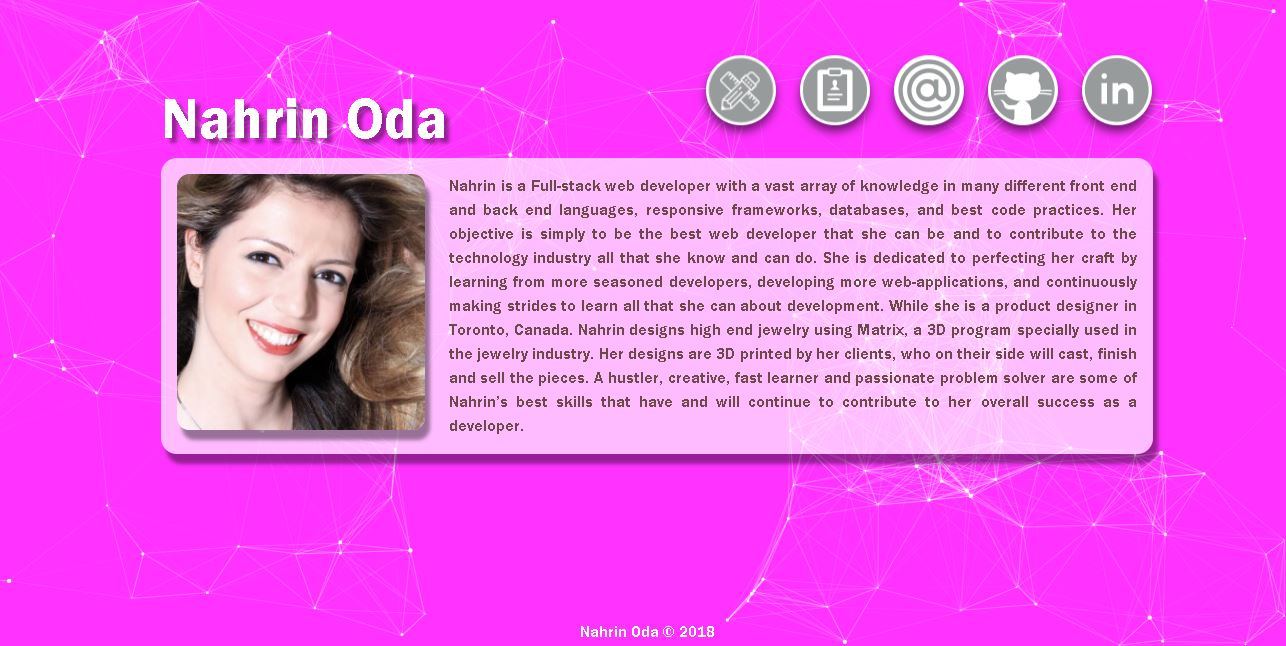
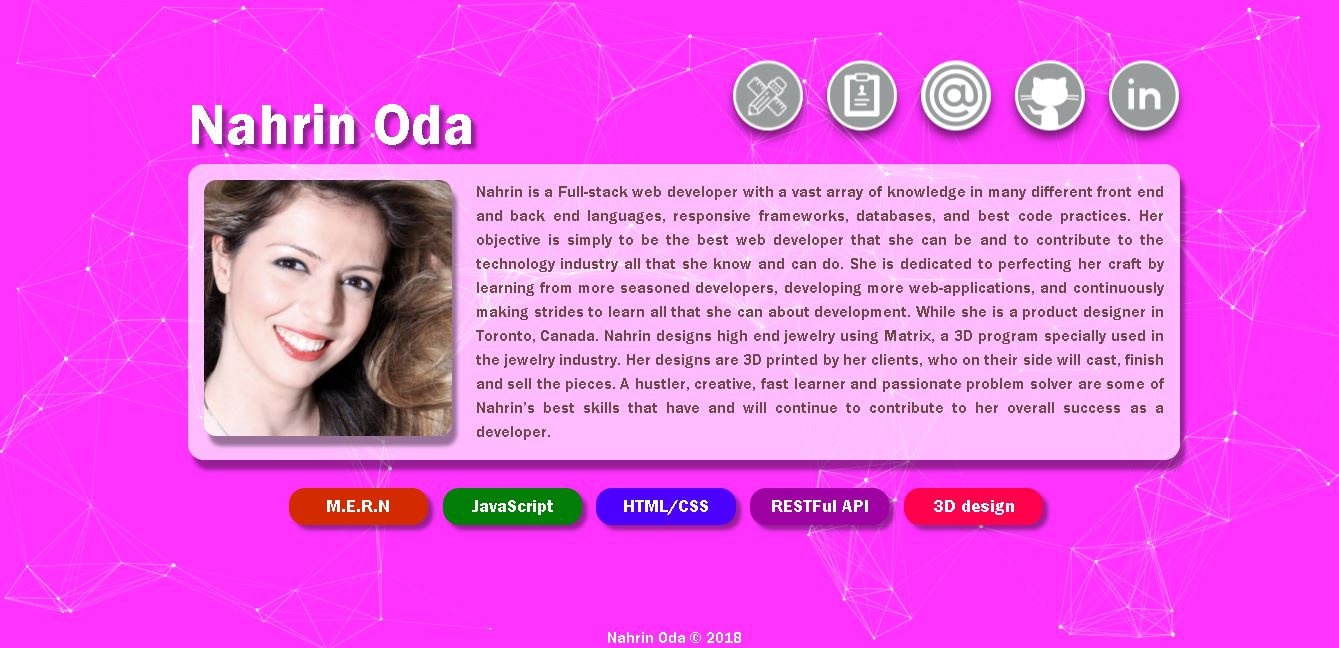
updates

diff --git a/landingPage.html b/landingPage.html
@@ -1,83 +1,116 @@
 <!DOCTYPE html>
-<html lang="en">
+<html class="responsive" lang="en">
+  <head>
+    <title>three.js webgl - materials - cube refraction [balls]</title>
+    <meta charset="utf-8" />
+    <meta
+      name="viewport"
+      content="width=device-width, user-scalable=no, minimum-scale=1.0, maximum-scale=1.0"
+    />
+    <!-- Style sheets link -->
+    <link rel="stylesheet" type="text/css" href="./assets/css/reset.css" />
+    <link rel="stylesheet" type="text/css" href="./assets/css/style.css" />
 
-<head>
-        <title>three.js webgl - materials - cube refraction [balls]</title>
-        <meta charset="utf-8">
-        <meta name="viewport" content="width=device-width, user-scalable=no, minimum-scale=1.0, maximum-scale=1.0">
-        <!--Style sheets link-->
-        <link rel="stylesheet" type="text/css" href="./assets/css/reset.css">
-        <link rel="stylesheet" type="text/css" href="./assets/css/style.css">
+    <!-- favicon -->
+    <link rel="icon" href="./assets/img/favicon.ico" type="image/x-icon" />
+    <title>Nahrin Oda</title>
+  </head>
 
-        <!--favicon-->
-        <link rel="icon" href="./assets/img/favicon.ico" type="image/x-icon">
-        <title>Nahrin Oda</title>
-</head>
+  <!-- <body onload="showGreetings()"> -->
 
-<!-- <body onload="showGreetings()"> -->
+  <body class="responsive">
+    <div id="particles-js"></div>
+    <div class="myName">Nahrin Oda</div>
 
-<body>
-        <div id="particles-js"></div>
-        <div class="myName">Nahrin Oda</div>
+    <div class="icons">
+      <a href="https://www.linkedin.com/in/nahrinoda/" target="_blank">
+        <img
+          class="myIcons "
+          src="https://img.icons8.com/ios/70/989B9C/linkedin-circled-filled.png"
+          alt="linkedin icon"
+        />
+      </a>
+      <a href="https://github.com/nahrinoda" target="_blank">
+        <img
+          class="myIcons "
+          src="https://img.icons8.com/ios/70/989B9C/github-filled.png"
+          alt="github icon"
+        />
+      </a>
+      <a href="mailto:nahrin@nahrinoda.com" target="_blank">
+        <img
+          class="myIcons "
+          src="https://img.icons8.com/windows/70/989B9C/email-sign.png"
+          alt="nahrin oda email"
+        />
+      </a>
+      <a
+        href="https://docs.google.com/document/d/1tdmhRHpPkqxgos4TyJ36ZoS1XIevag8E6swETnniMl8/edit"
+        target="_blank"
+      >
+        <img
+          class="myIcons "
+          src="./assets/img/cv.png"
+          width="70px"
+          alt="nahrin oda resume"
+        />
+      </a>
+      <a href="./index.html">
+        <img
+          class="myIcons "
+          src="./assets/img/portfolio.png"
+          width="70px"
+          alt="nahrin oda portfolio"
+        />
+      </a>
+      <!--
+        <a href="tel:6479837503" target="_blank">
 
-        <div class="icons">
-                <a href="https://www.linkedin.com/in/nahrinoda/" target="_blank">
-                        <img class="myIcons " src="https://img.icons8.com/ios/70/989B9C/linkedin-circled-filled.png"
-                                alt="linkedin icon">
-                </a>
-                <a href="https://github.com/nahrinoda" target="_blank">
-                        <img class="myIcons " src="https://img.icons8.com/ios/70/989B9C/github-filled.png" alt="github icon">
-                </a>
-                <a href="mailto:nahrin@nahrinoda.com" target="_blank">
-                        <img class="myIcons " src="https://img.icons8.com/windows/70/989B9C/email-sign.png" alt="nahrin oda email">
-                </a>
-                <a href="https://docs.google.com/document/d/1tdmhRHpPkqxgos4TyJ36ZoS1XIevag8E6swETnniMl8/edit" target="_blank">
-                        <img class="myIcons " src="./assets/img/cv.png" width="70px" alt="nahrin oda resume">
-                </a>
-                <a href="./index.html">
-                        <img class="myIcons " src="./assets/img/portfolio.png" width="70px" alt="nahrin oda portfolio">
-                </a>
-                <!-- <a href="tel:6479837503" target="_blank">
-                        <img class="myIcons " src="./assets/img/tele.png" width="70px" alt="nahrin's phone number">
-                </a> -->
+                <img class="myIcons " src="./assets/img/tele.png" width="70px" alt="nahrin's phone number">
 
-        </div>
-        <div class="card">
-                <a href="./index.html"><img class="myImg " src="./assets/img/myimg.jpg" alt="Nahrin Oda image"></a>
-                <p class="aboutMe">
-                        Nahrin is a Full-stack web developer with a vast array of knowledge in many different front end
-                        and back
-                        end languages, responsive frameworks, databases, and best code practices. Her objective is
-                        simply to be the
-                        best web developer that she can be and to contribute to the technology industry all that she
-                        know and can
-                        do. She is dedicated to perfecting her craft by learning from more seasoned developers,
-                        developing more
-                        web-applications, and continuously making strides to learn all that she can about development.
-                        While she is
-                        a product designer in Toronto, Canada. Nahrin designs high end jewelry using Matrix, a 3D
-                        program specially
-                        used in the jewelry industry. Her designs are 3D printed by her clients, who on their side will
-                        cast,
-                        finish and sell the pieces.
-                        A hustler, creative, fast learner and passionate problem solver are some of Nahrin’s best
-                        skills that have
-                        and will continue to contribute to her overall success as a developer.
 
-                </p>
-        </div>
+        </a>
+      -->
+    </div>
+    <div class="card">
+      <a href="./index.html"
+        ><img class="myImg " src="./assets/img/myimg.jpg" alt="Nahrin Oda image"
+      /></a>
+      <p class="aboutMe">
+        Nahrin is a Full-stack web developer with a vast array of knowledge in
+        many different front end and back end languages, responsive frameworks,
+        databases, and best code practices. Her objective is simply to be the
+        best web developer that she can be and to contribute to the technology
+        industry all that she know and can do. She is dedicated to perfecting
+        her craft by learning from more seasoned developers, developing more
+        web-applications, and continuously making strides to learn all that she
+        can about development. While she is a product designer in Toronto,
+        Canada. Nahrin designs high end jewelry using Matrix, a 3D program
+        specially used in the jewelry industry. Her designs are 3D printed by
+        her clients, who on their side will cast, finish and sell the pieces. A
+        hustler, creative, fast learner and passionate problem solver are some
+        of Nahrin’s best skills that have and will continue to contribute to her
+        overall success as a developer.
+      </p>
+    </div>
+   
+    <ul >
+    <li id="color1">M.E.R.N</li>
+    <li id="color2">JavaScript</li>
+    <li id="color3">HTML/CSS</li>
+    <li id="color4">RESTFul API</li>
+    <li id="color5">3D design</li>
+    </ul>
 
-        <!--Footer Start-->
-        <footer>Nahrin Oda &copy; 2018 </footer>
-        <!-- Footer Ends -->
+    <!-- Footer Start -->
+    <footer>Nahrin Oda &copy; 2018</footer>
+    <!-- Footer Ends -->
 
-        <a href="https://icons8.com">Icon pack by Icons8</a>
+    <a class="hideFooter" href="https://icons8.com">Icon pack by Icons8</a>
 
-        <script src="https://cdnjs.cloudflare.com/ajax/libs/gsap/2.0.0/TweenMax.min.js"></script>
-        <script src="https://ajax.googleapis.com/ajax/libs/jquery/1.9.1/jquery.min.js"></script>
-        <script src="https://cdn.jsdelivr.net/particles.js/2.0.0/particles.min.js"></script>
-        <script src="./landingPage.js"></script>
-
-</body>
-
+    <script src="https://cdnjs.cloudflare.com/ajax/libs/gsap/2.0.0/TweenMax.min.js"></script>
+    <script src="https://ajax.googleapis.com/ajax/libs/jquery/1.9.1/jquery.min.js"></script>
+    <script src="https://cdn.jsdelivr.net/particles.js/2.0.0/particles.min.js"></script>
+    <script src="./landingPage.js"></script>
+  </body>
 </html>

diff --git a/assets/css/style.css b/assets/css/style.css
@@ -191,6 +191,42 @@ h2 {
   left: 1%;
 }
 
+ul {
+  position: relative;
+  font-family: "Franklin Gothic Medium", "Arial Narrow", Arial, sans-serif;
+  color: #fff;
+  bottom: 26%;
+  margin: 0 auto;
+  font-size: large;
+  width: 60rem;
+  text-align: center;
+}
+
+li {
+  width: calc(100% / 8);
+  display: inline-block;
+  box-shadow: 5px 5px 5px rgba(0, 0, 0, 0.404);
+  border-radius: 1rem;
+  padding: 0.6rem;
+  margin: 0.3rem;
+}
+
+#color1{
+  background-color: rgb(212, 42, 0);
+}
+#color2{
+  background-color: rgb(0, 126, 6);
+}
+#color3{
+  background-color: rgb(76, 0, 255);
+}
+#color4{
+  background-color: rgb(158, 2, 163);
+}
+#color5{
+  background-color: rgb(255, 0, 76);
+}
+
 .card {
   position: absolute;
   display: block;
@@ -208,6 +244,11 @@ h2 {
   margin-top: 1rem;
   box-shadow: 5px 10px 5px rgba(0, 0, 0, 0.404);
 }
+
+.hideFooter {
+  visibility: hidden;
+}
+
 @keyframes float {
   0% {
     box-shadow: 0 5px 15px 0px rgba(0, 0, 0, 0.6);
@@ -224,38 +265,68 @@ h2 {
 }
 
 @media (max-width: 800px) {
+  .responsive {
+    padding: 0;
+    height: 140%;
+    margin: 0 auto;
+    overflow: visible;
+  }
   h1 {
     font-size: 2rem;
   }
   h2 {
     font-size: 2rem;
     white-space: pre-wrap;
-    left: 50%;
-    top: 38%;
   }
   .button {
     width: 12rem;
   }
   .myImg {
-    width: 50%;
-    top: -30%;
-    left: 24%;
+    width: 100%;
+    position: relative;
+    margin: 0 auto;
+    margin-bottom: 1rem;
   }
   .myName {
     font-size: 2rem;
-    top: 0;
-    left: 25%;
+    margin: 0 auto;
   }
   .card {
-    width: 20rem;
-    left: 7%;
-    top: 30%;
-    justify-content: center;
+    width: 70%;
+    font-size: 1.2rem;
+    margin: 0 auto;
   }
   .aboutMe {
-    width: 20rem;
-
+    width: 100%;
+  }
+  .icons {
+    display: inline-block;
+    width: 100%;
+    top: 4%;
+    left: 0%;
+  }
+  .myIcons {
+    display: inherit;
+    margin-right: 1rem;
+    animation: float 3s ease-in-out infinite;
+    z-index: 3;
+  }
+  ul {
+    display: flex;
+    flex-wrap: wrap;
+    bottom: 10%;
+    width: 100%;
     justify-content: center;
+  }
+
+  li {
+    display: block;
+    width: 100px;
+   
+  }
+  footer {
+    top: 205%;
+   
   }
 }
 
